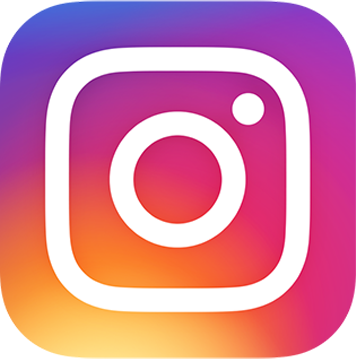
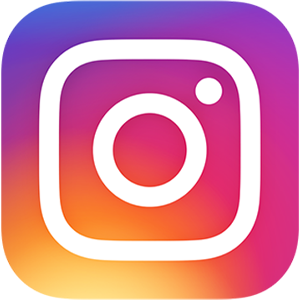
Add files via upload

diff --git a/styles.css b/styles.css
@@ -131,7 +131,7 @@ body {
 }
 
 .icon img {
-    max-width: 90px; /* 이미지 크기 조정 */
+    max-width: 85px; /* 이미지 크기 조정 */
     height: auto;
     margin-bottom: 10px; /* 이미지와 텍스트 사이에 간격 추가 */
 }
